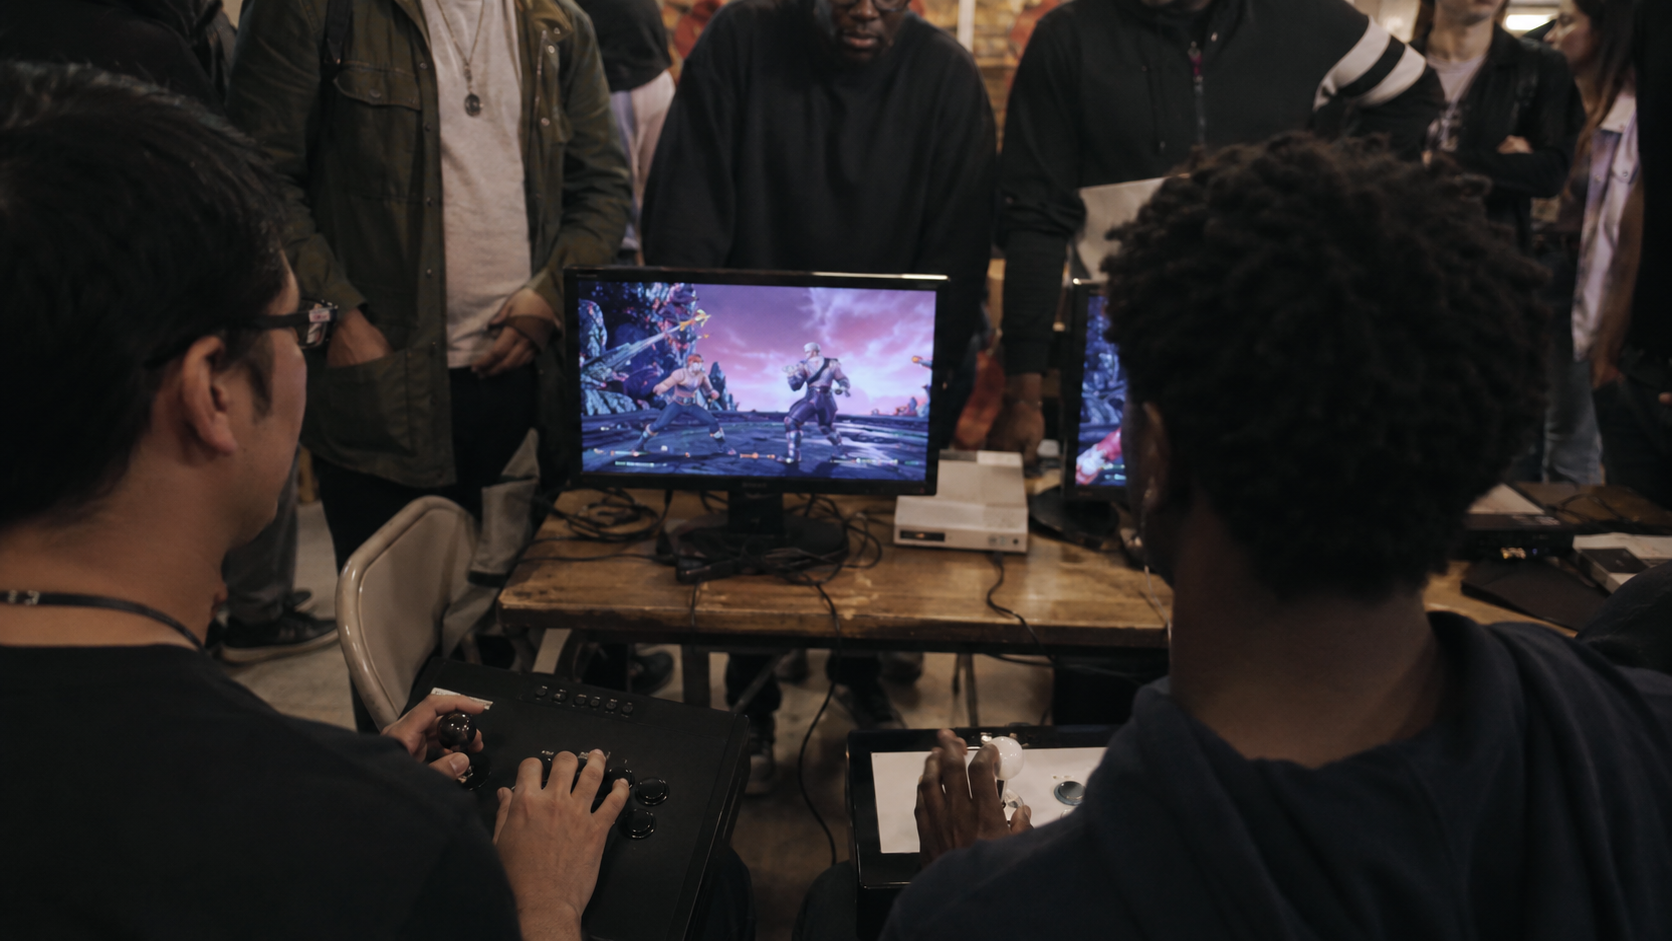
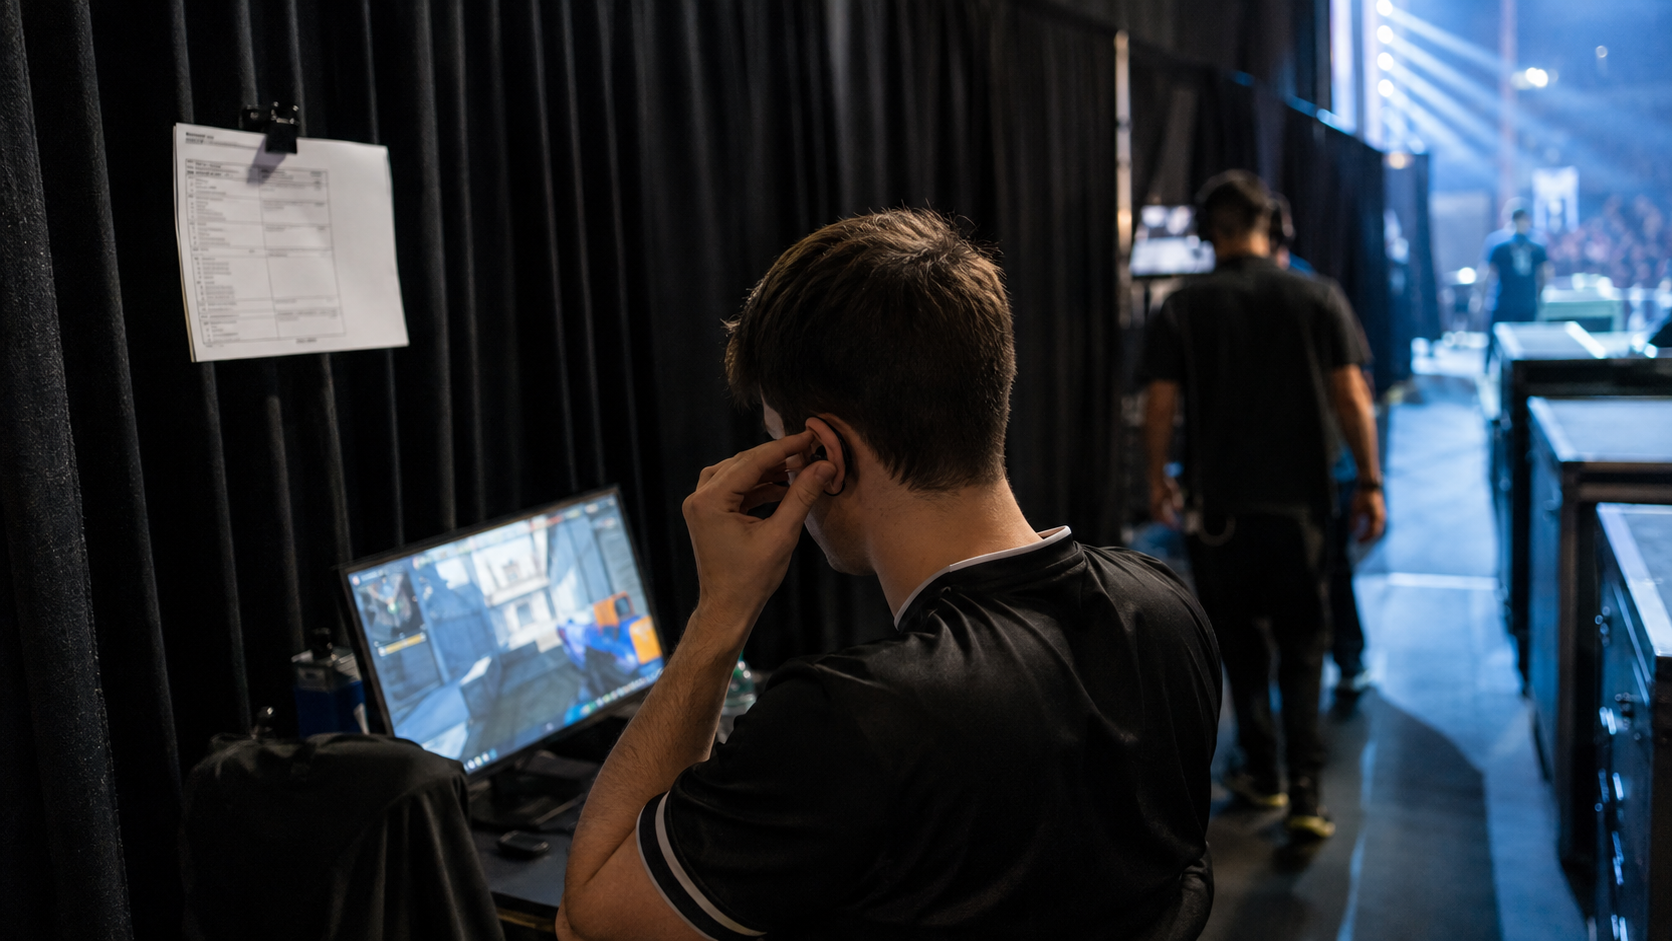
Update journal article imagery

diff --git a/journal/athlete-flow.html b/journal/athlete-flow.html
@@ -10,7 +10,7 @@
   <meta property="og:title" content="Before the Spotlight: Managing Athlete Flow in Combat Sports — Lyan Studio Journal" />
   <meta property="og:description" content="Athlete flow depends on clear timing, clear movement and reliable points of contact, especially in the hours before competition." />
   <meta property="og:url" content="https://www.lyanstudio.com/journal/athlete-flow.html" />
-  <meta property="og:image" content="https://www.lyanstudio.com/assets/journal/journal-athlete-flow.svg" />
+  <meta property="og:image" content="https://www.lyanstudio.com/assets/journal/journal-athlete-flow.png" />
   <meta name="twitter:card" content="summary_large_image" />
   <link rel="icon" href="../favicon.ico" sizes="any" />
   <link rel="icon" href="../favicon.svg" type="image/svg+xml" />

diff --git a/js/main.js b/js/main.js
@@ -87,8 +87,8 @@ const articles = [
     title: 'Before the Spotlight: Managing Athlete Flow in Combat Sports',
     deck: 'The unseen corridors, calls and waiting spaces that shape an athlete’s preparation before the public moment.',
     excerpt: 'Athlete flow depends on clear timing, clear movement and reliable points of contact, especially in the hours before competition.',
-    image: 'assets/journal/journal-athlete-flow.svg',
-    imageAlt: 'Neutral editorial image slot for combat sport athlete flow and preparation spaces.',
+    image: 'assets/journal/journal-athlete-flow.png',
+    imageAlt: 'Athlete in a gi seated backstage before entering a live competition area.',
     author: 'Lyan Studio Journal',
     date: 'August 13, 2026',
     readingTime: '3 min read',
